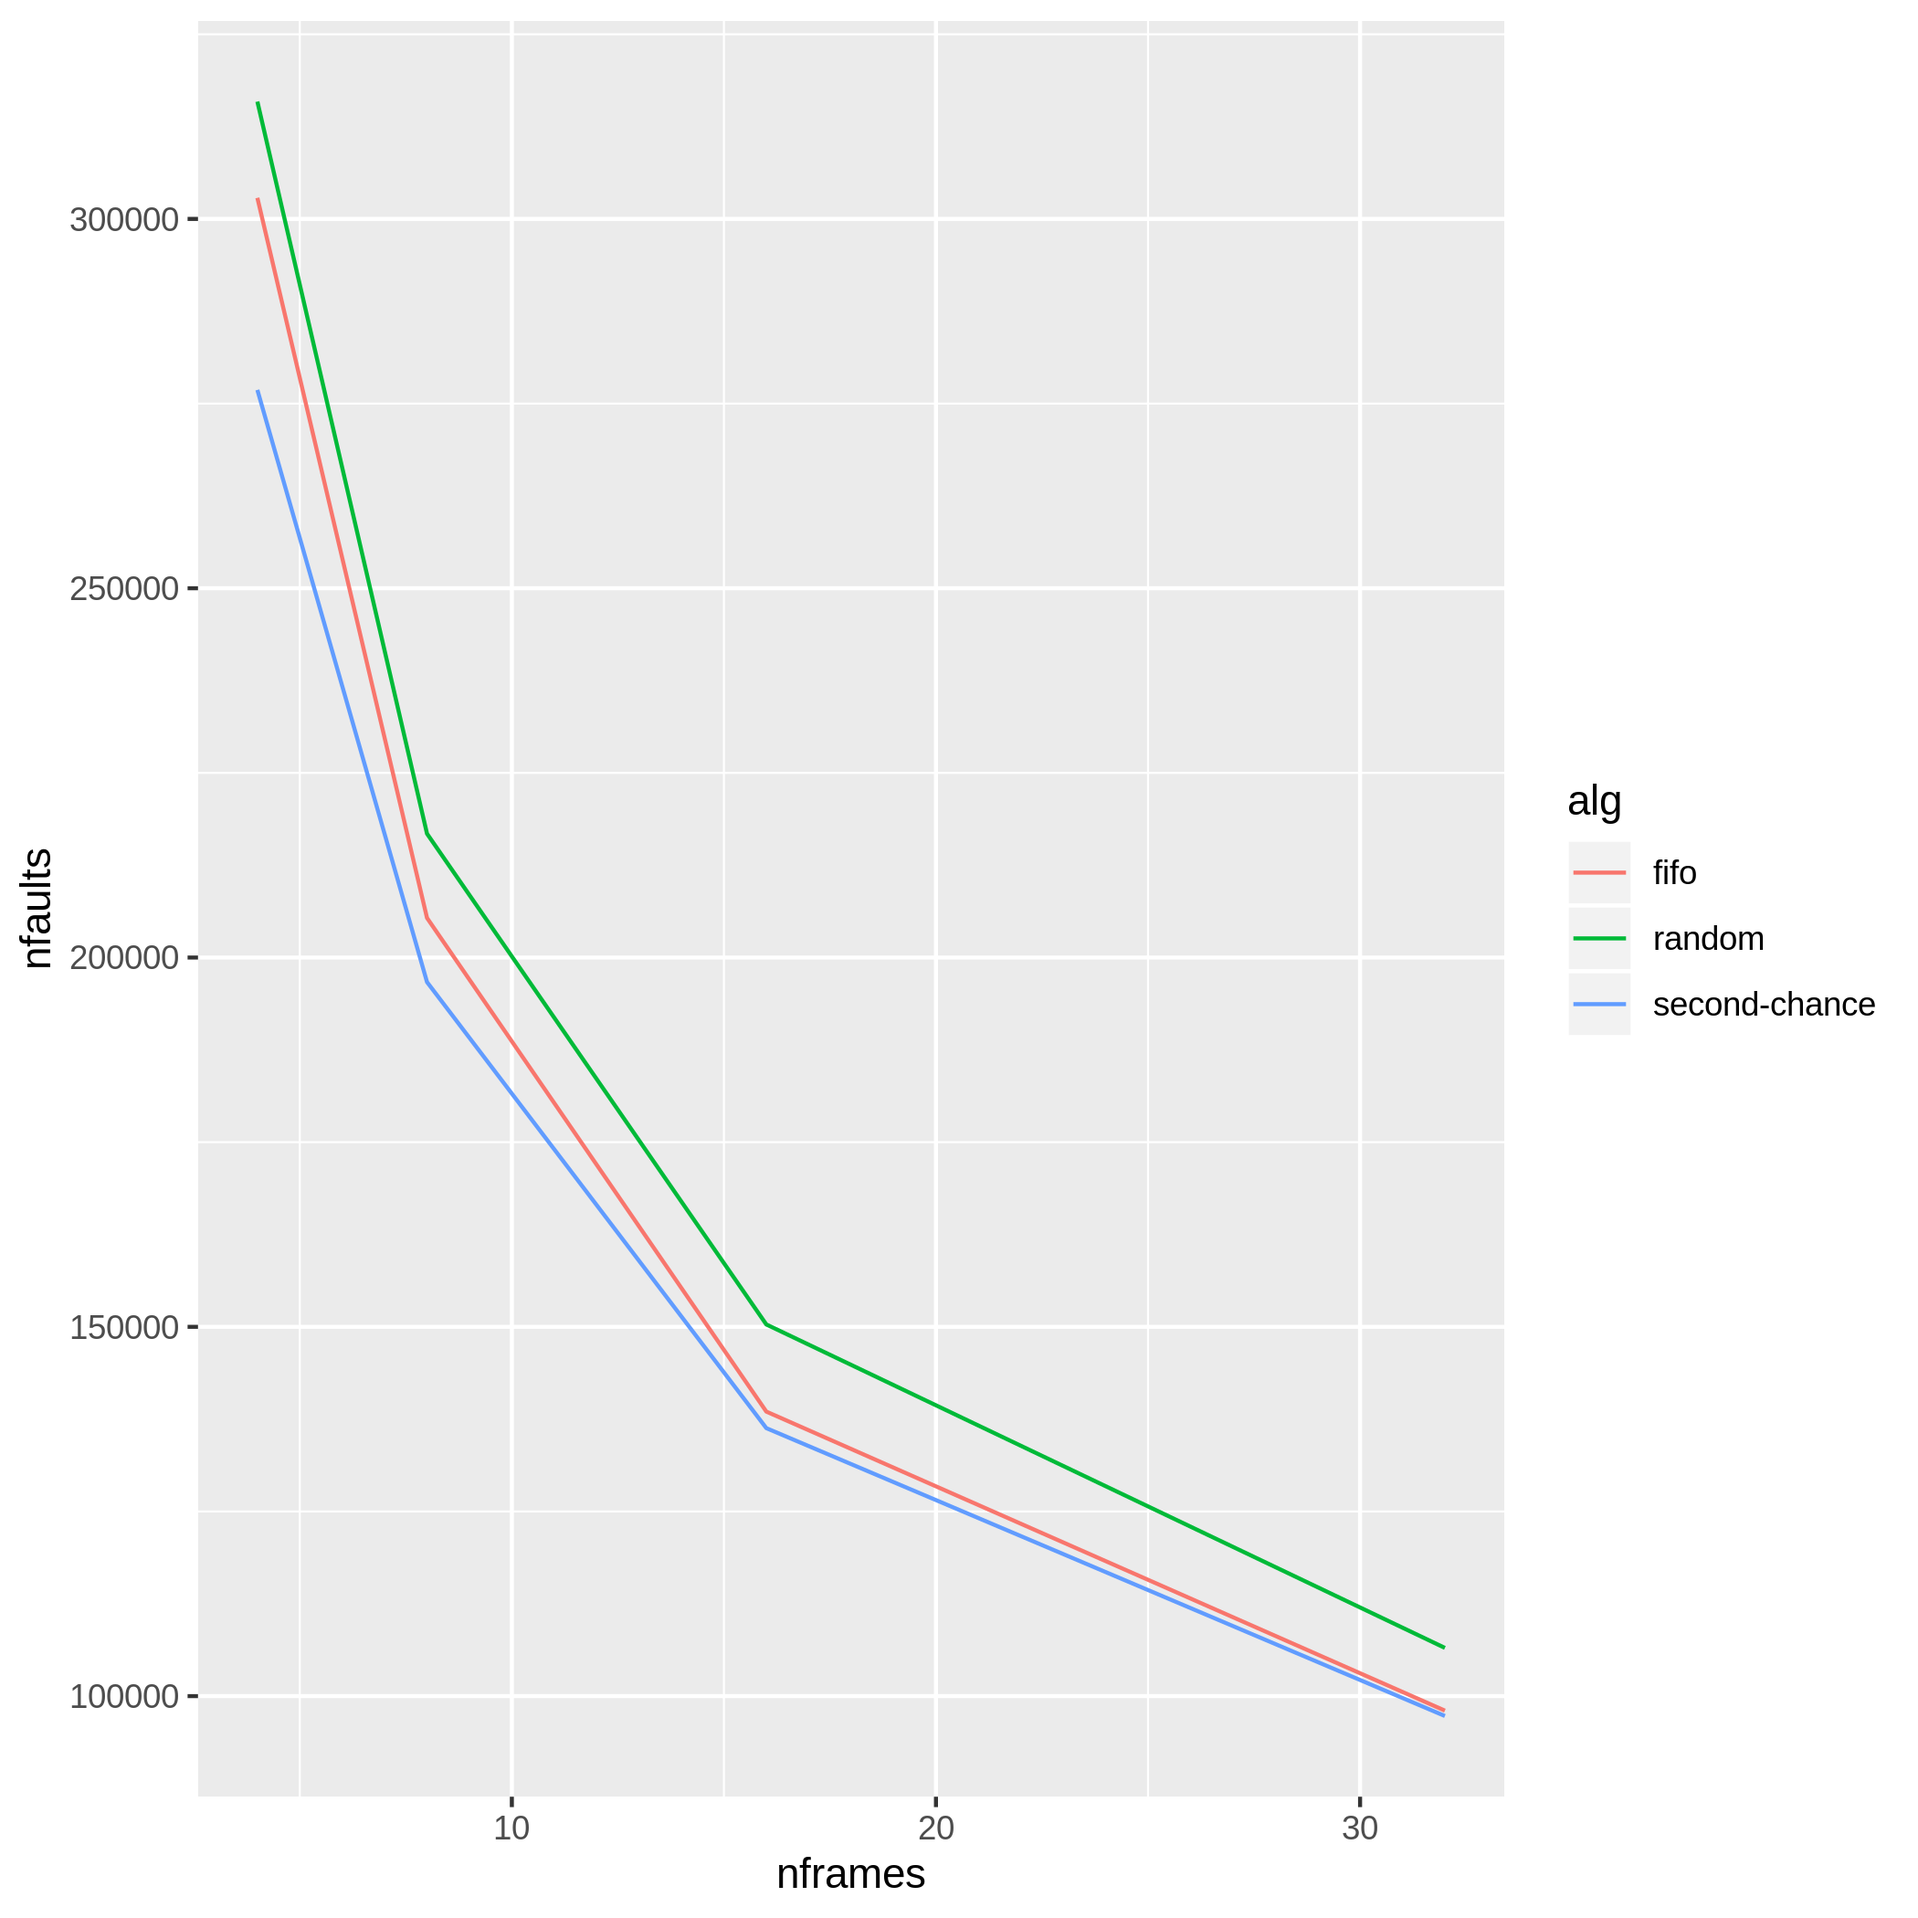
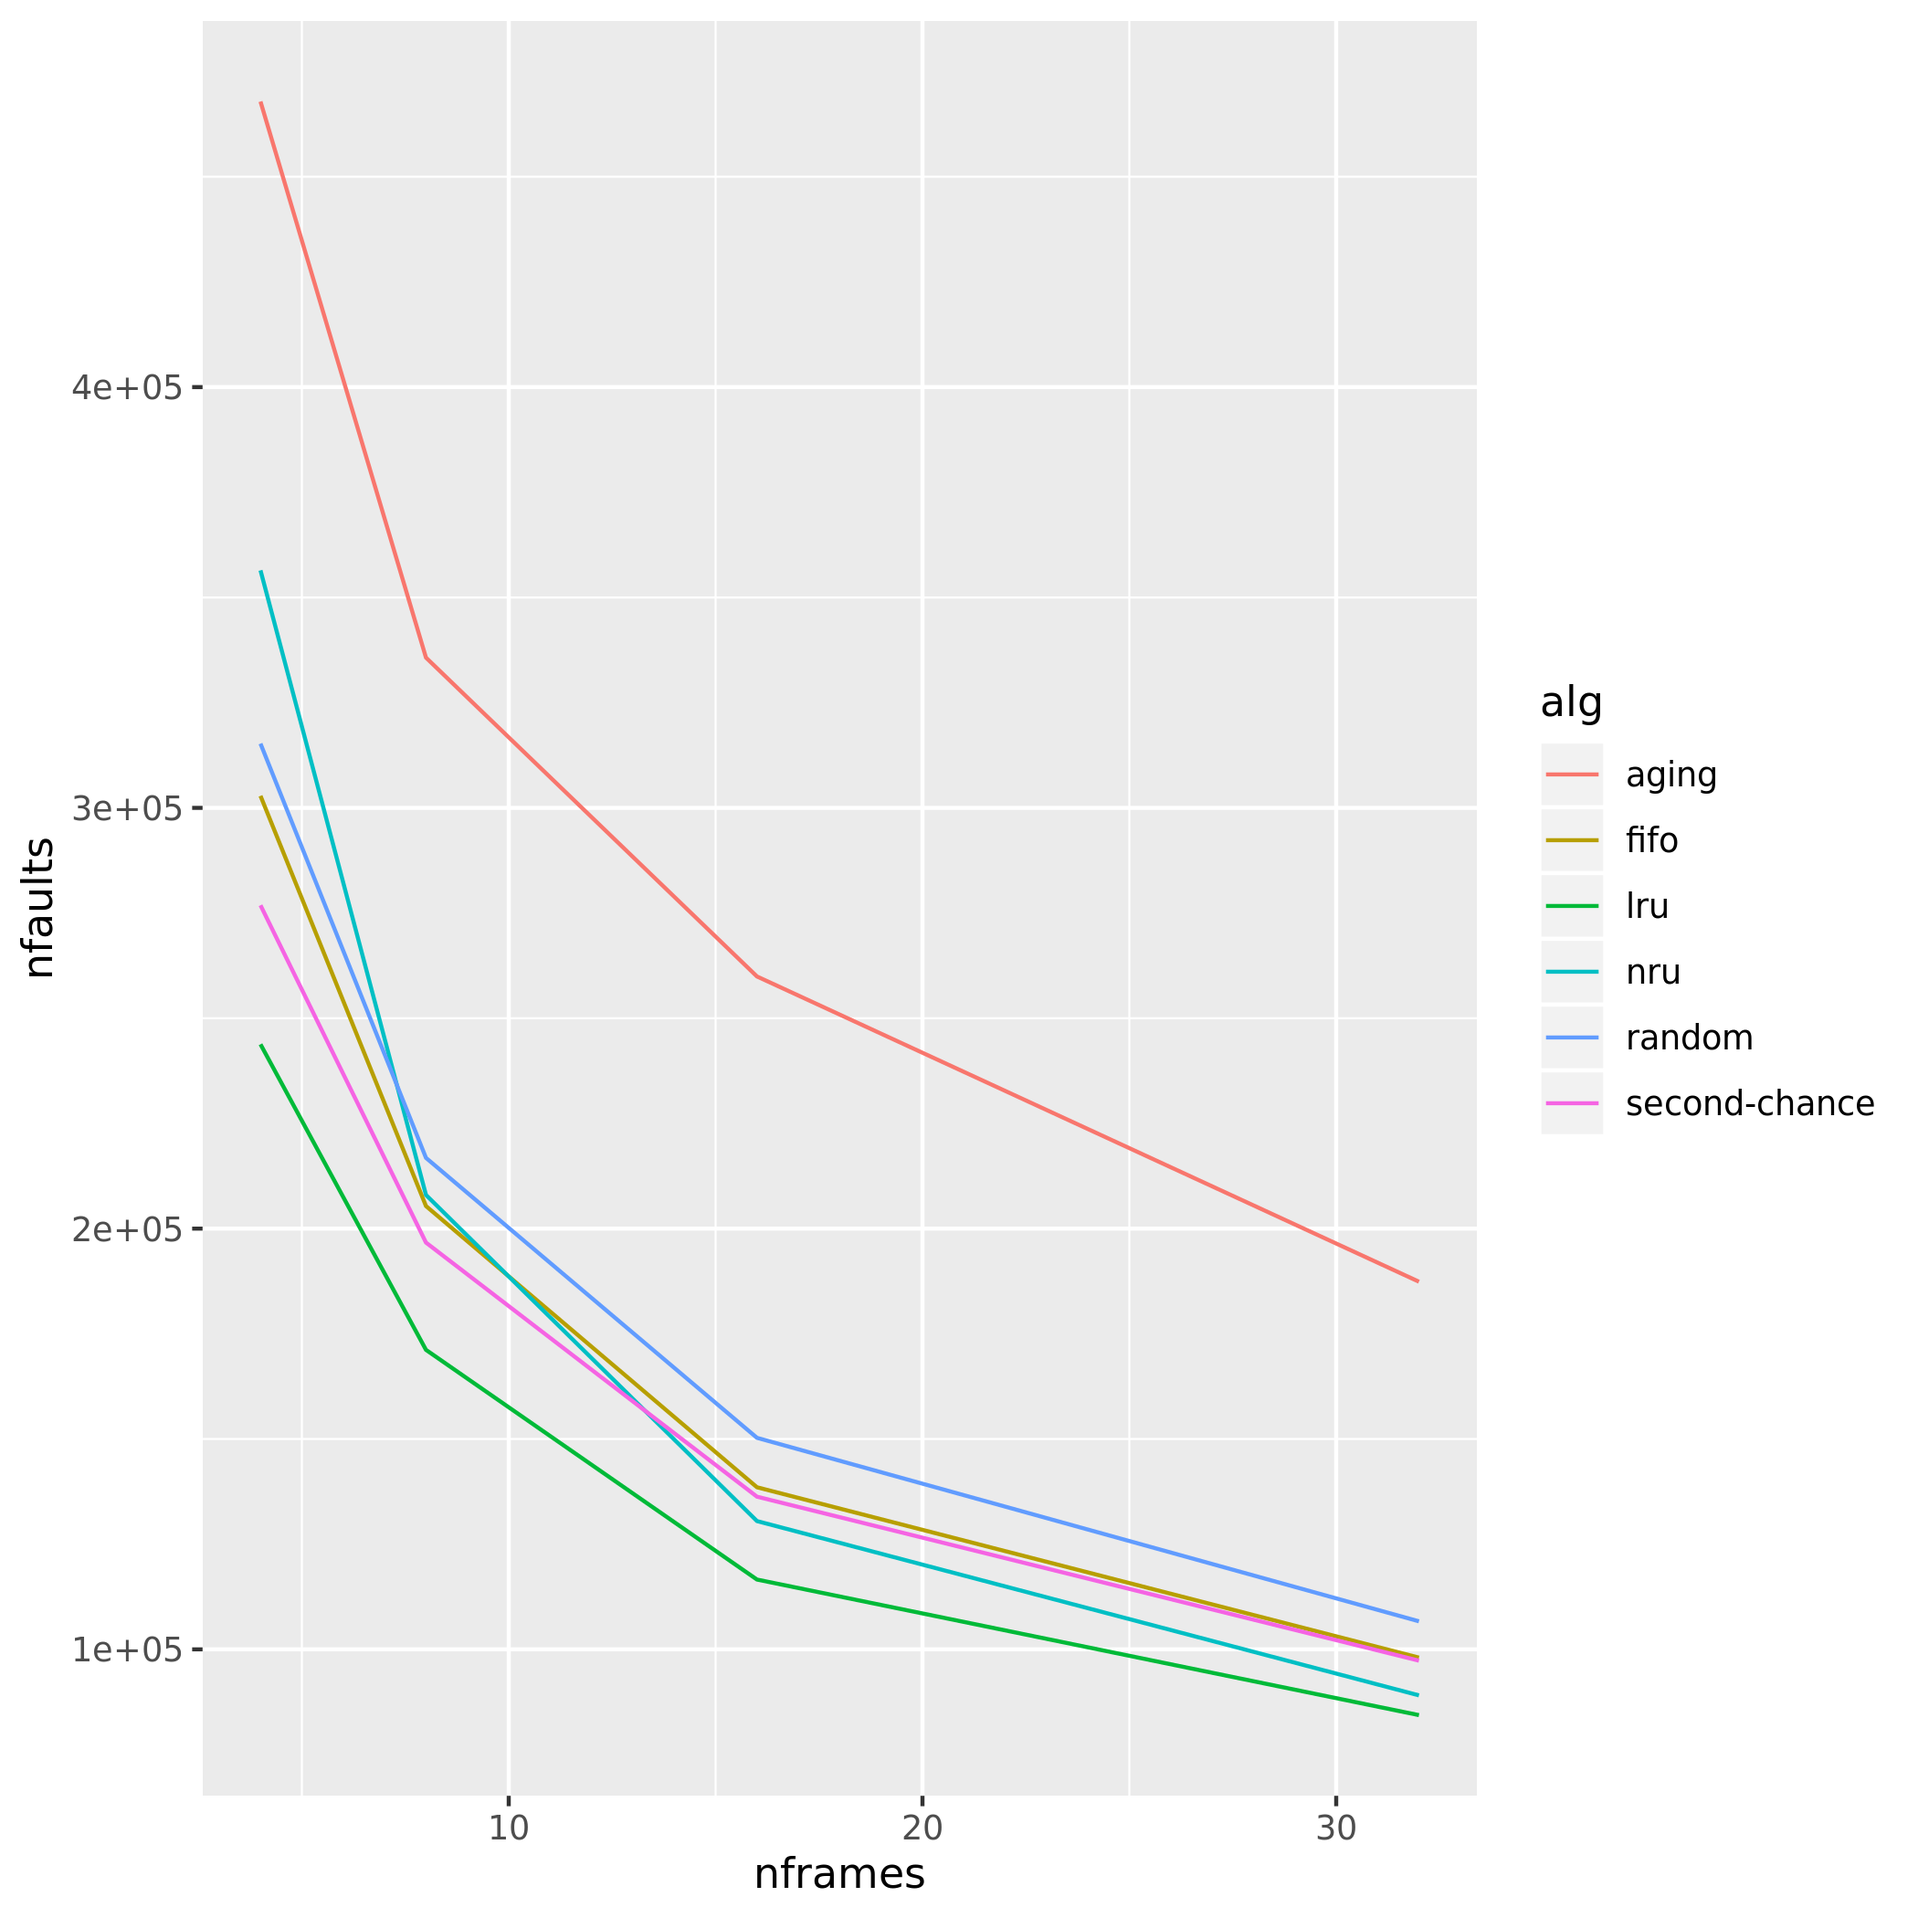
LRU algorithm added, simulation ran and plots generated.

diff --git a/mem-shell/lab_mem/page_replacement/python/algorithms/lru.py b/mem-shell/lab_mem/page_replacement/python/algorithms/lru.py
@@ -10,16 +10,18 @@
 class LRU:
 
   def __init__(self):
-    pass
+    from collections import deque
+    self.deque = deque()
 
   def put(self, frameId):
-    pass
+    self.deque.appendleft(frameId)
 
   def evict(self):
-    pass
+    return self.deque.pop()
 
   def clock(self):
     pass
 
   def access(self, frameId, isWrite):
-    pass
+    self.deque.remove(frameId)
+    self.deque.appendleft(frameId)
